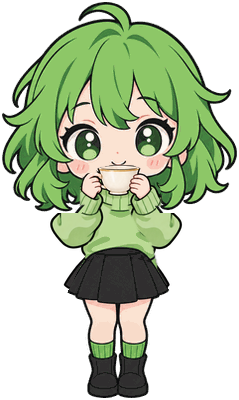
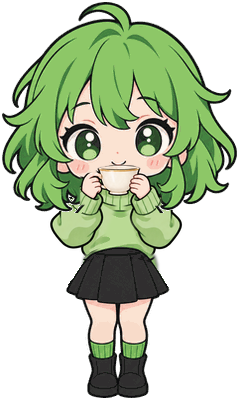
Fix X5 rendered hem gap and feather sipping contours

diff --git a/src/renderer/chibi/x5-tea/player.js b/src/renderer/chibi/x5-tea/player.js
@@ -49,18 +49,22 @@
     async prepare() {
       this.images = {};
       await Promise.all(KEYS.map(async key => { this.images[key] = await load(`keys/${key}.png`); }));
-      const [headMask, frontMask, sleep, happy, steam3, steam4] = await Promise.all([
+      const [headMask, frontMask, sleep, happy, steam3, steam4, headSupport, sipBase] = await Promise.all([
         load('masks/head-alpha.png'), load('masks/sip-front-alpha.png'),
         load('keys/face-sleeping.png'), load('keys/face-happy.png'),
         load('keys/K3-steam.png'), load('keys/K4-steam.png'),
+        load('masks/head-support-alpha.png'), load('keys/sip-without-steam.png'),
       ]);
       const head = masked(this.images.K1, headMask, 'destination-in');
       this.heads = { neutral: head, sleeping: expression(head, sleep), happy: expression(head, happy) };
       this.steam = { K3: steam3, K4: steam4 }; this.layers = {};
       for (const key of KEYS) {
+        const bodyImage = ['K3', 'K4'].includes(key) ? sipBase : this.images[key];
         this.layers[key] = {
-          body: masked(this.images[key], headMask, 'destination-out'),
-          front: ['K3', 'K4'].includes(key) ? masked(this.images[key], frontMask, 'destination-in') : null,
+          // Erase only original head pixels, never empty space around the hair:
+          // a broad head polygon would horizontally chop the new sleeves.
+          body: masked(bodyImage, headSupport, 'destination-out'),
+          front: ['K3', 'K4'].includes(key) ? masked(sipBase, frontMask, 'destination-in') : null,
         };
       }
     }
@@ -68,7 +72,7 @@
       let time = Math.max(0, seconds);
       for (const part of this.parts) {
         if (time < part.seconds) {
-          const key = part.phase === 'sip' && Math.floor(time / .32) % 2 ? 'K4' : part.key;
+          const key = part.phase === 'sip' && Math.floor(time / .6) % 2 ? 'K4' : part.key;
           return { ...part, key, elapsed: time };
         }
         time -= part.seconds;
@@ -81,7 +85,8 @@
       const ctx = this.ctx, layer = this.layers[key];
       const sipping = part.phase === 'sip';
       const rise = sipping ? .75 * (1 - Math.cos(part.elapsed * Math.PI * 2 / 1.6)) : 0;
-      const shoulder = key === 'K4' ? 1 : 0;
+      // Steam keys never change body position; breathing stays continuous.
+      const shoulder = 0;
       const tilt = part.tilt === 'in' ? ease(part.elapsed / part.seconds)
         : part.tilt === 'out' ? 1 - ease(part.elapsed / part.seconds) : part.tilt === 'hold' ? 1 : 0;
       ctx.setTransform(this.ratio, 0, 0, this.ratio, 0, 0);
@@ -93,10 +98,16 @@
         return;
       }
       ctx.save(); ctx.translate((SIZE - W * SCALE) / 2, SIZE - H * SCALE); ctx.scale(SCALE, SCALE);
-      // Original feet stay on the original baseline; breathing transforms only existing layers.
-      ctx.drawImage(layer.body, 0, 300, W, 100, 0, 300, W, 100);
-      ctx.save(); ctx.translate(0, 300 - shoulder); ctx.scale(1, 1 + rise / 116); ctx.translate(0, -300);
-      ctx.drawImage(layer.body, 0, 0, W, 300, 0, 0, W, 300); ctx.restore();
+      // One continuous body draw: no cropped seam at the skirt hem.
+      // The original sole edge is the fixed anchor; the neck rises by exactly rise.
+      const sole = 398, neck = 184;
+      ctx.save(); ctx.translate(0, sole); ctx.scale(1, 1 + rise / (sole - neck)); ctx.translate(0, -sole);
+      if (layer.front) {
+        // Original sleeve pixels overlap under the moving hair. Without this
+        // underlap, a nod exposes the old head-erasure edge over each elbow.
+        for (const x of [47, 152]) ctx.drawImage(layer.body, x, 214, 40, 8, x, 204, 40, 18);
+      }
+      ctx.drawImage(layer.body, 0, 0); ctx.restore();
       // Small original collar overlap prevents a transparent seam under a nodding head.
       ctx.drawImage(this.images.K1, 96, 185, 49, 10, 96, 182 - rise, 49, 13);
       ctx.save(); ctx.translate(119.5, 184 - rise); ctx.rotate(tilt * 2.2 * Math.PI / 180);

diff --git a/src/renderer/chibi/x5-tea/build-assets.py b/src/renderer/chibi/x5-tea/build-assets.py
@@ -23,7 +23,7 @@ OLD_LEFT = [(87,210),(89,237),(82,264),(80,294),(49,301),(11,301),(9,265),(29,23
 HEAD = [(0,0),(239,0),(239,212),(157,212),(150,190),(143,184),(96,184),(89,190),(81,212),(0,212)]
 LEFT = {
     'K2': [(84,199),(110,206),(112,232),(96,256),(81,271),(58,274),(46,263),(48,237),(65,216)],
-    'K3': [(78,195),(84,173),(105,171),(112,182),(111,208),(98,234),(79,250),(58,249),(46,235),(49,210),(64,199)],
+    'K3': [(77,193),(82,170),(106,169),(115,182),(114,210),(102,235),(97,248),(82,257),(58,256),(44,246),(41,232),(46,207),(62,195)],
     'K5': [(86,214),(110,228),(113,252),(99,274),(73,278),(54,268),(55,246),(68,229)],
 }
 CUPS = {
@@ -63,7 +63,50 @@ def steam(raw, double=False):
     opacity = np.clip((rgb.min(axis=2)-167)/70, 0, 1) * region * neutral * (arr[:,:,3]/255)
     result = np.full_like(arr, 255)
     result[:,:,3] = np.round(opacity*205).astype(np.uint8)
-    return Image.fromarray(result)
+    # Re-anchor the existing AI-painted curl at the cup's right rim. Stretch
+    # its outward drift so it clears the eye rather than starting on the hair.
+    ys, xs = np.where(result[:,:,3] > 32)
+    if not len(ys):
+        raise RuntimeError('Steam extraction is empty')
+    bottom = ys.max()
+    anchor_x = float(xs[ys >= bottom-2].mean())
+    sx, sy = 1.7, .55
+    return Image.fromarray(result).transform(
+        SIZE, Image.Transform.AFFINE,
+        (1/sx, 0, anchor_x-136/sx, 0, 1/sy, bottom-168/sy),
+        resample=Image.Resampling.BICUBIC, fillcolor=(0,0,0,0))
+
+
+def retain_original_skirt(edited, original):
+    """Keep the complete original skirt contour, not a polygon cut through it.
+
+    The folded sipping sleeves end above this band. Below them, remove the
+    old hanging sleeves but copy original skirt runs with their antialiasing.
+    This mask contains only existing pixels; it paints no new contour.
+    """
+    source = np.asarray(original)
+    restored = np.zeros_like(source)
+    for y in range(245, 305):
+        dark = (source[y, :, :3].max(axis=1) < 115) & (source[y, :, 3] > 0)
+        if not dark[120]:
+            continue
+        left = right = 120
+        while left > 0 and dark[left-1]:
+            left -= 1
+        while right < SIZE[0]-1 and dark[right+1]:
+            right += 1
+        # In the standing reference, hanging cuff outlines touch the skirt
+        # in these rows. Keep only the skirt between its adjacent contours.
+        if 282 <= y <= 288:
+            left = max(left, round(70 - (y-281)*.5))
+            right = min(right, round(164 + (y-281)*5/8))
+        restored[y, left:right+1] = source[y, left:right+1]
+    restored[305:] = source[305:]
+    yy = np.indices(source.shape[:2])[0]
+    weight = np.clip((yy-252)/8, 0, 1)
+    weight = weight*weight*(3-2*weight)
+    return Image.composite(Image.fromarray(restored), edited,
+                           Image.fromarray(np.round(weight*255).astype('uint8')))
 
 
 def main():
@@ -73,25 +116,30 @@ def main():
     original = Image.open(FRAMES/'stand.png').convert('RGBA')
     source = {k: Image.open(args.sources/v).convert('RGBA').resize(SIZE, Image.Resampling.LANCZOS)
               for k,v in RAW.items()}
+    source['K3'] = retain_original_skirt(source['K3'], original)
     head_mask = mask([HEAD], 0)
+    head_support = Image.fromarray(np.where(
+        (np.asarray(head_mask) > 0) & (np.asarray(original)[:,:,3] > 0), 255, 0).astype('uint8'))
     keys = {'K1': original}
     report = {}
     for name in ['side', 'K2', 'K3', 'K5']:
         regions = [OLD_LEFT, mirror(OLD_LEFT)]
         regions += SIDE if name == 'side' else [LEFT[name], mirror(LEFT[name]), CUPS[name]]
-        allowed = mask(regions)
-        # Original skirt is retained except where a new cup/hand actually covers it.
-        skirt = mask([[(92,249),(145,249),(157,270),(171,294),(150,305),(85,305),(66,294),(79,268)]], 0)
-        occlusion = mask(SIDE if name == 'side' else [CUPS[name]], 0)
-        keep_skirt = (np.asarray(skirt)/255)*(1-np.asarray(occlusion)/255)
-        allowed = Image.fromarray(np.round(np.asarray(allowed)*(1-keep_skirt)).astype('uint8'))
+        allowed = mask(regions, 1.5 if name == 'K3' else .7)
+        # Sip uses the original raster contour above, with a soft interior band.
+        # Do not clip its sleeve outlines with a hard skirt polygon.
+        if name != 'K3':
+            skirt = mask([[(92,249),(145,249),(157,270),(171,294),(150,305),(85,305),(66,294),(79,268)]], 0)
+            occlusion = mask(SIDE if name == 'side' else [CUPS[name]], 0)
+            keep_skirt = (np.asarray(skirt)/255)*(1-np.asarray(occlusion)/255)
+            allowed = Image.fromarray(np.round(np.asarray(allowed)*(1-keep_skirt)).astype('uint8'))
         # Restore every head/hair pixel except actual cup/hand occlusion of chin.
         if name == 'K3':
             front = mask([CUPS[name], [(80,173),(108,173),(112,204),(80,205)],
                           [(134,173),(160,173),(160,205),(133,205)]])
         else:
             front = Image.new('L', SIZE)
-        protected = np.asarray(head_mask).astype(float)/255
+        protected = np.asarray(head_support if name == 'K3' else head_mask).astype(float)/255
         exposed = np.asarray(front).astype(float)/255
         allowed = Image.fromarray(np.round(np.asarray(allowed)*(1-protected*(1-exposed))).astype('uint8'))
         # Feather occurs only at the shoulder seam within each single pose.
@@ -136,6 +184,10 @@ def main():
                   [(134,173),(160,173),(160,206),(133,206)]], .5)
     front.save(HERE/'masks'/'sip-front.png')
     mask([HEAD], 0).save(HERE/'masks'/'head.png')
+    head_support.save(HERE/'masks'/'head-support.png')
+    support_rgba = Image.new('RGBA', SIZE, (255,255,255,0))
+    support_rgba.putalpha(head_support)
+    support_rgba.save(HERE/'masks'/'head-support-alpha.png')
     for name in ['head','sip-front']:
         alpha=Image.open(HERE/'masks'/f'{name}.png').convert('L')
         rgba=Image.new('RGBA',SIZE,(255,255,255,0));rgba.putalpha(alpha)

diff --git a/src/renderer/chibi/x5-tea/README.md b/src/renderer/chibi/x5-tea/README.md
@@ -9,9 +9,9 @@ Rad etilgan 59bce30 rig'i main'da `64e86e7` bilan o'chirilgan: tea slot eski kad
 
 Imagegen built-in rasm tahriri ishlatildi. Alohida maska fayli parametri unda **yo'q**; bu cheklov ish boshlanishidan oldin Shaxzodga aytildi. Shuning uchun bu API orqali haqiqiy maskali inpainting emas: rasm vositasida lokal tahrir so'raldi, so'ng `build-assets.py` faqat oldindan belgilangan qo'l/yeng/piyola/bug' maskalarini original ustiga ko'chirdi. Yangi yeng, kaft, piyola yoki bug' kodda chizilmadi. Maska tashqarisidagi RGBA original `stand.png` dan aynan saqlangan. Yuz uchun faqat mavjud face-sleeping/face-happy qatlamlaridan ko'z/og'iz hududi olindi.
 
-`keys/K1.png`, `side.png`, `K2.png`, `K3.png`, `K4.png`, `K5.png`: 239×400, neytral original yuzli asosiy pozalar. `masks/<key>.png` — har pozaning aniq ruxsat etilgan o'zgarish hududi. Oldingi yon qo'llarni olib tashlash uchun ham maska bor; yubka, oyoqlar va boshning ochiq hududi originaldan tiklanadi. Feather faqat bitta pozaning yelka tutashuviga ishlatiladi. Pozalar orasida crossfade, opacity tween yoki IK yo'q.
+`keys/K1.png`, `side.png`, `K2.png`, `K3.png`, `K4.png`, `K5.png`: 239×400, neytral original yuzli asosiy pozalar. `masks/<key>.png` — har pozaning aniq ruxsat etilgan o'zgarish hududi. Oldingi yon qo'llarni olib tashlash uchun ham maska bor; yubka, oyoqlar va boshning ochiq hududi originaldan tiklanadi. K3/K4 qo'l/yeng maskasi 1.5 source px feather bilan kengaytirilgan: tabiiy qora kontur maska ichida qoladi. Yubka qattiq ko'pburchak bilan kesilmaydi; original rastr konturi va 252–260 oralig'idagi yumshoq ichki tutashuv saqlanadi. Pozalar orasida crossfade, opacity tween yoki IK yo'q.
 
-`K4` qo'l/piyolasi aynan K3'dan; faqat rasm vositasi yaratgan boshqa bug' fazasi qo'shilgan. K4 yelkalari ijroda 1 source px ko'tariladi. Bug'ni ajratishda yuz/ko'zning oq piksellari chiqarib tashlangan. Shaffoflik bug'ning o'z alpha kanaliga tegishli; piyola va qo'l fade bilan paydo bo'lmaydi.
+`K4` qo'l/piyolasi aynan K3'dan; faqat rasm vositasi yaratgan boshqa bug' fazasi qo'shilgan. K3/K4 almashishi tanani siljitmaydi; bug' fazasi 0.6 s da almashadi, yelka sakrashi yo'q. Asl bug' qatlamining pastki uchi piyolaning o'ng cheti (136,168) ga bog'langan. Bug'ni ajratishda yuz/ko'zning oq piksellari chiqarib tashlangan. Shaffoflik bug'ning o'z alpha kanaliga tegishli; piyola va qo'l fade bilan paydo bo'lmaydi.
 
 `build-assets.py --sources <image_gen output directory>` asset tayyorlash vositasi; Pillow va numpy runtime dependency emas. Asl AI chiqishlari `prompts.json` da qayd etilgan Codex generated_images papkasida saqlanadi. Yakuniy ishlatiladigan PNG/maskalar shu branch ichida.
 
@@ -30,7 +30,7 @@ Imagegen built-in rasm tahriri ishlatildi. Alohida maska fayli parametri unda **
 | K2 → yon → K1 | 0.6 s |
 | Yakuniy K1 | 0.9 s |
 
-Limited-animation usuli: pozalar darhol almashadi. Kod faqat PNG qatlamlarini chizadi: nafas 0–1.5 source px, original bosh maksimal 2.2°, K4 yelka 1 px. Oyoq/baseline siljimaydi. Bosh hech qachon AI qayta chizgan boshga almashtirilmaydi. Cup/hands alohida foreground bo'lib boshning oldida qoladi. K1 bosh/oxir butun original rasmning o'zi.
+Limited-animation usuli: pozalar darhol almashadi. Kod faqat PNG qatlamlarini chizadi: nafas 0–1.5 source px, original bosh maksimal 2.2°. Tana y=300 da bo'linmaydi: butun qatlam y=398 tayanchiga nisbatan juda oz masshtablanadi; tagcharm baseline'i o'zgarmaydi. Bosh hech qachon AI qayta chizgan boshga almashtirilmaydi. Boshni o'chirish maskasi keng bo'sh ko'pburchak emas, original bosh/sochning haqiqiy pixel support'i; shu sabab soch atrofidagi yangi yeng saqlanadi. Soch ostiga asl yengning 8 px tasmasi ustma-ust cho'zilib, bosh egilganda bo'shliq ochilishini yopadi. Cup/hands alohida foreground bo'lib boshning oldida qoladi; bug'siz sip bazasi ishlatiladi, bug' ikki marta chizilmaydi. K1 bosh/oxir butun original rasmning o'zi.
 
 ## Tekshiruv
 
@@ -42,3 +42,11 @@ Limited-animation usuli: pozalar darhol almashadi. Kod faqat PNG qatlamlarini ch
 - 131 olingan kadrdan tayyorlangan medium/2× GIF (77 takrorsiz GIF kadr, 6.55s) va barcha kalitning alohida 2× PNG'si Codex visualizations/2026/10/21/01a15ced-b7c7-75b3-b878-1fbc4995d032/x5-tea/ da. Sinov skript/profillar faqat Temp'da va ish oxirida tozalanadi.
 
 GIF'ni ko'rish sifatni qabul qilish o'rnini bosmaydi. Shaxzod aniq **ha** degandan keyingina integratsiya alohida ish sifatida bajariladi. Qolgan 4 harakat bu topshiriqda o'zgarmadi.
+
+## P1 qayta tekshiruv — c952c46 review'dan keyin
+
+- Faqat asset emas, player.js natijasi Electron37'da 4×, butun6.5s bo'ylab131fazada tekshirildi. Y=300 etak ichki ROI(4× x326..393,y539..548): oldin eng yomon136past-alphapiksel/min0; keyin0ta/min250. Bu ROI originalidagi odatiy alpha250–253; oq/shafof gorizontal chiziq yo'q.
+- Barcha131frame'da alpha>24 eng pastki qator716..716. K1/side/K2/K3/K4/K5, raise va sipA/sipB4× ko'z bilan ham ko'rildi. Runtime tirqish testi asset zero-diff testidan mustaqil.
+- SourcePNG'lar maska tashqarisi0farq bo'lib qoldi. P1maskusuli asl contourpiksellarini saqlaydi; yangi rasm generatsiyasi yoki kodda chizilgan sleeve/outline yo'q.
+- Yangi comparison-medium.gif/comparison-2x.gif va elbow-skirt-before-after-4x.png/all-key-crops-4x.png Codex visualizations/.../x5-tea-p1/ da. Bu yangi fayllar avvalgi X5 dalillarini ustiga yozmaydi.
+- Main integratsiyasi, versiya, build, push yo'q. Review'dagi P3 (asset tayyorlash vositalarini src'dan tashqariga chiqarish) integratsiya bosqichida alohida qoladi.

diff --git a/WORKLOG.md b/WORKLOG.md
@@ -3,6 +3,17 @@
 Claude va Codex shu yerga yozadi. Yangi yozuv **eng yuqoriga** qo'shiladi.
 Qoidalar: [AGENTS.md](AGENTS.md).
 
+## 2026-10-21 · Codex · X5 ikkala P1 tuzatildi — 4x haqiqiy render bilan
+- Shaxzod f034b81 Claude review bo'yicha faqat codex/x5-midori-tea'da tuzatishni so'radi. Main integratsiya, versiya, build va push yo'q. Faol production index/manifest/main fayllari o'zgarmadi.
+- P1 etak: player.js'da y300 yuqori/pastki body crop'lari olib tashlandi. Bitta uzluksiz body y398 tagcharm tayanchiga nisbatan masshtablanadi; neckrise0–1.5px, oyoqtagi barqaror. Shu sabab tana kesimi/shoulder siljishidan ochiladigan gorizontal tirqish yo'q.
+- P1 maska: K3 maskasi tabiiy yeng konturidan tashqariga kengaytirildi,1.5px feather; K3/K4da qattiq skirt ko'pburchagi olib tashlandi. Original rastr yubka qatorlari saqlanadi, eski osilgan yeng konturi yubkaga tegib qolgan282..288qatorlar ajratiladi;252–260kofta ichida yumshoq tutashuv. Boshni o'chirish haqiqiy bosh/sochpixel support'i bilan; keng polygon bo'shlig'idagi yangi yeng kesilmaydi. Noddastochok ochilmasin deb originalyeng214..221tasmasi soch ostiga overlap bilan cho'ziladi, yangi chiziq/anatomiya kodda chizilmaydi. K3/K4body bug'sizbazadan, bug'double-render yo'q.
+- P2 ham: K4ga bog'liq1pxyelka sakrashi yo'q, faqat uzluksiz nafas; steamkey0.32→0.6s. Mavjud AI bug'ining pastki uchi piyolaningo'ngcheti136,168ga ko'chirildi, egri tashqariga yo'naltirildi; yangi AI generatsiya qilinmadi.
+- Tekshiruv rasmlarga emas PLAYER.JS chiqishiga: Electron37 ratio4 canvas720,6.5s bo'ylab131faza; K1/side/K2/K3raise/sipA(K3)/sipB(K4)/K5/end alohida4xPNG va tirsak/etakROI ko'z bilan tekshirildi. Barcha131frame'da etakichkiROI x326..393/y539..548 pastalpha<245 soni0,min250; oldin engyomon136piksel,min0. Baselinealpha>24 barchasida716..716. Har ikkala sip varianti toza.
+- Alohida native ratio1 medium180 va ratio2canvas360 player renderlari olindi,4xPNG'ni shunchaki kichraytirish emas. Yakuniy playback6538ms,true; cancel/hiddenCancel/heartbeatStoppedtrue; konsolerror0. QA getImageData performance warning va Electronlistener deprecation mahsulot xatosi emas. Fizik sichqoncha/OS sleep/CPUbenchmark qilinmadi.
+- Assetmask auditi barcha6keyda tashqarifarq0; K1/side/K2/K5 PNG'lar o'zgarmadi. K3/K4feather241/248turlioraliqalpha; source stand yoki mavjud yuzqatlamlari tahrirlanmadi.
+- Yangi dalillar: Codex visualizations/2026/10/21/01a15ced-b7c7-75b3-b878-1fbc4995d032/x5-tea-p1/{comparison-medium.gif,comparison-2x.gif,elbow-skirt-before-after-4x.png,all-key-crops-4x.png,elbow-skirt-4x.gif,render-validation.json}; qolganlari alohida {K1,side,K2,K3,sipA,sipB,K5,end}-render-4x.png. Comparison yonida1.11.0eski2s. Eski dalillar saqlandi.
+- Temp sinov skript/profil/captureJSONlar tozalandi; node --check/git diff --check o'tdi. Qolgan ish: Shaxzod yangi GIF'ga aniq HA demaguncha main'ga ulash YO'Q. ReviewP3(toolssrc'dan chiqarish) integratsiya oldidan alohida qoladi. Commit: ushbu P1 tuzatishlari.
+
 ## 2026-10-21 · Claude · X5 choy review (c952c46)
 - Ko'rildi: key-poses-2x, K2/K3 2x, comparison-2x.gif (77 kadr, 6.55 s), maskalar, player.js; player Electron'da 4× chizildi (kirish/ho'plash A-B/mamnun).
 - Yo'nalish to'g'ri: qo'l, yeng, piyola asl rastr uslubida; crossfade yo'q; piyola havodan chiqmaydi; vaqt jadvalga mos (ho'plash 2.4 s, jami 6.5 s); asset'larda maska tashqarisi 0 farq. Codex rasm vositasida maska yo'qligini oldindan aytgan.
